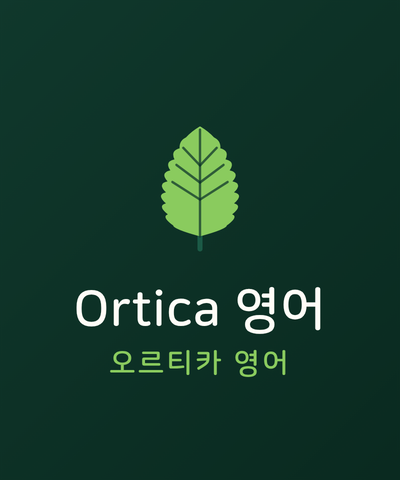
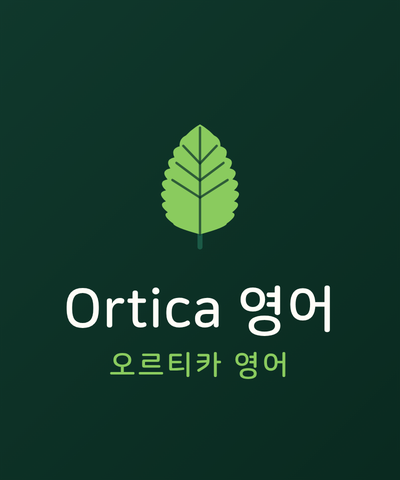
크림 바탕 프로필 추가 (가로형 로고와 같은 구성)
가로형 로고의 색과 글자 구성(Ortica + 오르티카 영어)을 정사각 프로필로 옮겼다.
가로 배치를 그대로 정사각에 넣으면 글자가 작아져서 잎을 위로 올려 쌓았다.
build_profile 에 name_text 를 받아 윗줄 글자를 갈아 끼울 수 있게 했다.
1200 / 800 / 400 세 크기로 낸다.

Claude-Session: https://claude.ai/code/session_015BpsJgtaBR6xs1aCKnE4xw

diff --git a/brand/build.py b/brand/build.py
@@ -193,7 +193,7 @@ def sample_height(name: str, width: int) -> int:
 
 # ── 브랜드 기본 ───────────────────────────────────────────────────────────
 def build_profile(size: int, dark: bool = True, box_h: int = 0,
-                  with_name: bool = True) -> str:
+                  with_name: bool = True, name_text: str = "") -> str:
     """프로필.
 
     with_name=True  : 심볼 + 'Ortica 영어' + '오르티카 영어'
@@ -202,9 +202,11 @@ def build_profile(size: int, dark: bool = True, box_h: int = 0,
                       글자를 빼고 잎을 키우면 작아져도 형태가 남는다.
 
     box_h 를 주면 세로가 긴 판(사이드바 스킨용)으로 만든다.
+    name_text 로 윗줄 글자를 갈아 끼운다(기본 'Ortica 영어').
     """
     s, t = size, theme(dark)
     h = box_h or size
+    title = name_text or PROFILE_EN
     if not with_name:
         inner = f"""<div style="height:100%;display:flex;align-items:center;
           justify-content:center">
@@ -215,8 +217,8 @@ def build_profile(size: int, dark: bool = True, box_h: int = 0,
     inner = f"""<div style="height:100%;display:flex;flex-direction:column;
       align-items:center;justify-content:center">
       <div style="width:{s * 0.42:.0f}px;line-height:0">{mark(dark, int(s * 0.42))}</div>
-      <div class="wm" style="margin-top:{s * 0.048:.0f}px;font-size:{s * 0.125:.0f}px;
-           color:{t['fg']}">{PROFILE_EN}</div>
+      <div class="wm" style="margin-top:{s * 0.048:.0f}px;font-size:{s * 0.135:.0f}px;
+           color:{t['fg']}">{title}</div>
       <div class="ko" style="margin-top:{s * 0.028:.0f}px;font-size:{s * 0.072:.0f}px;
            color:{t['accent']};letter-spacing:.08em">{BRAND_KO}</div>
     </div>"""
@@ -746,6 +748,13 @@ def build_all() -> list[Path]:
     # 크게 보이는 자리용 (이름이 함께 들어간 판)
     emit(made, "profile-name-800.png", build_profile(800), 800, 800)
     emit(made, "profile-name-400.png", build_profile(400), 400, 400)
+    # 크림 바탕 판 — 가로형 로고와 같은 색·글자 구성
+    emit(made, "profile-light-1200.png",
+         build_profile(1200, dark=False, name_text=BRAND_EN), 1200, 1200)
+    emit(made, "profile-light-800.png",
+         build_profile(800, dark=False, name_text=BRAND_EN), 800, 800)
+    emit(made, "profile-light-400.png",
+         build_profile(400, dark=False, name_text=BRAND_EN), 400, 400)
     emit(made, "profile-portrait-400x480.png", build_profile(400, box_h=480), 400, 480)
     emit(made, "title-966x300-dark.png", build_title(966, 300), 966, 300)
     emit(made, "title-966x300-light.png", build_title(966, 300, dark=False), 966, 300)

diff --git a/brand/README.md b/brand/README.md
@@ -51,7 +51,10 @@ brand/
 | --- | --- | --- |
 | `profile-mark-800.png` | 800×800 | **네이버 권장.** 심볼만 |
 | `profile-mark-400.png` | 400×400 | 같은 판, 작은 용량 |
-| `profile-mark-light-800.png` | 800×800 | 밝은 배경 버전 |
+| `profile-mark-light-800.png` | 800×800 | 밝은 배경, 심볼만 |
+| `profile-light-1200.png` | 1200×1200 | 크림 바탕 + Ortica + 오르티카 영어 |
+| `profile-light-800.png` | 800×800 | 위와 같음 |
+| `profile-light-400.png` | 400×400 | 위와 같음 |
 | `profile-name-800.png` | 800×800 | 크게 보이는 자리용(이름 포함) |
 | `profile-name-400.png` | 400×400 | 위와 같음 |
 | `profile-portrait-400x480.png` | 400×480 | 사이드바가 세로로 긴 스킨 |
